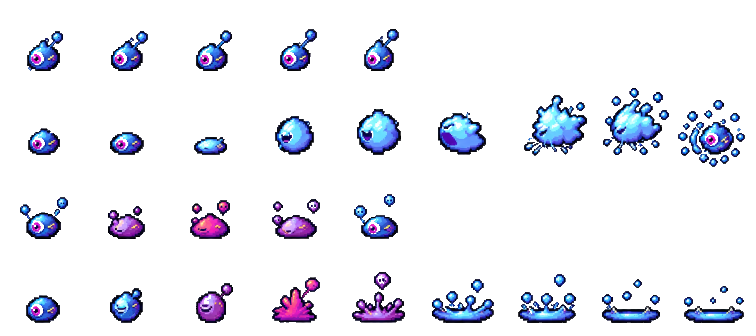
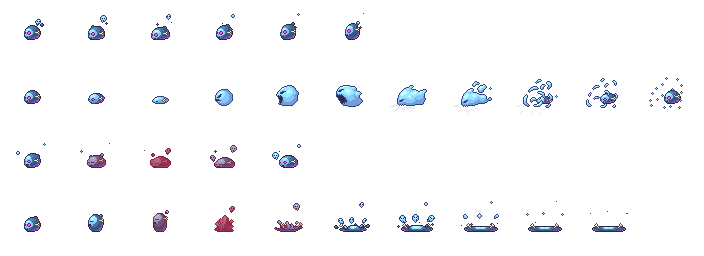
Back to the CraftPix slime sprites
Reverts 41f4ccb (ChatGPT-drafted blue and lava slime sheets): the
slimes use the Free Slime Mobs pack sheets again, cut by
process_foes.py, with their old FoeSprite layout and credits. The
drafted sheets and their scripts stay in git history.

diff --git a/src/scenes/battle/FoeSprite.ts b/src/scenes/battle/FoeSprite.ts
@@ -26,10 +26,9 @@ const ROWS: FoeAnim[] = ['idle', 'attack', 'hurt', 'death'];
 export type FoeGait = 'hop' | 'glide';
 
 /**
- * Foe sheets: third-party packs cut by scripts/art/process_foes.py, original foes painted by
- * scripts/art/paint_foes.py, and drafted foes cut by scripts/art/process_drafted_foes.py (see
- * art/README.md). One row per state, facing left; keep cells, columns and frame counts in sync
- * with those scripts' output.
+ * Foe sheets: third-party packs cut by scripts/art/process_foes.py, and original foes painted by
+ * scripts/art/paint_foes.py (see art/README.md). One row per state, facing left; keep cells, columns and frame counts in sync with that
+ * script's output.
  */
 interface Sheet {
   url: string;
@@ -53,11 +52,8 @@ interface Sheet {
   impact?: number;
 }
 
-/**
- * The slimes are ChatGPT-drafted sheets cut by scripts/art/process_drafted_foes.py (it prints these
- * numbers), shown at the hero's pixel size.
- */
-const SLIME = { scale: 3 };
+/** The slimes are tiny, so they are shown at twice the hero's pixel size. */
+const SLIME = { cell: 64, feet: { x: 33.5, y: 40 }, bodyHeight: 28, scale: 6, shadow: 26 };
 
 /**
  * The 128px packs draw their feet flush with the bottom edge of the cell. Standing them one pixel
@@ -84,26 +80,14 @@ const SHEETS: Record<FoeSpriteId, Sheet> = {
   'slime-blue': {
     ...SLIME,
     url: slimeBlueUrl,
-    cell: 84,
-    cols: 9,
-    frames: { idle: 5, attack: 9, hurt: 5, death: 9 },
-    feet: { x: 42, y: 71 },
-    bodyHeight: 40,
-    shadow: 36,
-    front: 15,
-    impact: 6, // the splash
+    cols: 11,
+    frames: { idle: 6, attack: 11, hurt: 5, death: 10 },
   },
   'slime-lava': {
     ...SLIME,
     url: slimeLavaUrl,
-    cell: 114,
     cols: 10,
     frames: { idle: 6, attack: 9, hurt: 5, death: 10 },
-    feet: { x: 57, y: 101 },
-    bodyHeight: 54,
-    shadow: 40,
-    front: 16,
-    impact: 5, // the flames at their tallest
   },
   'thorn-plant': {
     url: thornPlantUrl,

diff --git a/scripts/art/process_foes.py b/scripts/art/process_foes.py
@@ -5,6 +5,7 @@ https://craftpix.net/file-licenses/). The packs themselves are not kept in this 
 pass the unzipped folder of each pack you want to rebuild:
 
     python3 scripts/art/process_foes.py \
+        --slimes   <free-slime-mobs-pixel-art-top-down-sprite-pack> \
         --enemies  <free-fantasy-enemies-pixel-art-sprite-pack> \
         --werewolf <free-werewolf-sprite-sheets-pixel-art> \
         --minotaur <free-minotaur-sprite-sheet-pixel-art-pack>
@@ -26,14 +27,16 @@ ROOT = Path(__file__).resolve().parents[2]
 OUT_DIR = ROOT / 'src' / 'assets' / 'foes'
 
 # id -> (pack argument, [idle, attack, hurt, death] files inside the pack, row, mirror)
-# `row` picks one facing from sheets that stack several.
+# `row` picks one facing from sheets that stack several (the slimes: down, up, left, right).
 FOES: dict[str, tuple[str, list[str], int, bool]] = {
+    'slime-blue': ('slimes', [f'PNG/Slime2/Without_shadow/Slime2_{s}_without_shadow.png' for s in ('Idle', 'Attack', 'Hurt', 'Death')], 2, False),
+    'slime-lava': ('slimes', [f'PNG/Slime3/Without_shadow/Slime3_{s}_without_shadow.png' for s in ('Idle', 'Attack', 'Hurt', 'Death')], 2, False),
     'thorn-plant': ('enemies', [f'Plent/{s}.png' for s in ('Idle', 'Attack_1', 'Hurt', 'Dead')], 0, True),
     'fire-spirit': ('enemies', [f'Fire_Spirit/{s}.png' for s in ('Idle', 'Attack', 'Hurt', 'Dead')], 0, True),
     'shadow-wolf': ('werewolf', [f'Black_Werewolf/{s}.png' for s in ('Idle', 'Attack_1', 'Hurt', 'Dead')], 0, True),
     'minotaur': ('minotaur', [f'Minotaur_1/{s}.png' for s in ('Idle', 'Attack', 'Hurt', 'Dead')], 0, True),
 }
-CELL = {'enemies': 128, 'werewolf': 128, 'minotaur': 128}
+CELL = {'slimes': 64, 'enemies': 128, 'werewolf': 128, 'minotaur': 128}
 STATES = ('idle', 'attack', 'hurt', 'death')
 
 

diff --git a/art/README.md b/art/README.md
@@ -61,6 +61,7 @@ re-run it.
 
   | Sheet                        | Pack                                           | Character          |
   | ---------------------------- | ---------------------------------------------- | ------------------ |
+  | `slime-blue`, `slime-lava`   | Free Slime Mobs Pixel Art Top-Down Sprite Pack | Slime2, Slime3     |
   | `thorn-plant`, `fire-spirit` | Free Fantasy Enemies Pixel Art Sprite Pack     | Plent, Fire_Spirit |
   | `shadow-wolf`                | Free Werewolf Sprite Sheets Pixel Art          | Black_Werewolf     |
   | `minotaur`                   | Free Minotaur Sprite Sheet Pixel Art Pack      | Minotaur_1         |
@@ -85,15 +86,6 @@ re-run it.
   primitives quantised to short colour ramps, so change the painter and re-run it rather than
   editing a PNG. `?scene=foes` shows every passage's foes in the game; `art/foe-gallery.jpg` is a
   picture of all of them.
-
-- `slime-blue` and `slime-lava` are **original**, drafted in ChatGPT as one sheet each in
-  `foes-raw/` (rows idle, attack, hurt, death; facing left). The drafts came with a fake
-  transparency checkerboard painted in. `python3 scripts/art/process_drafted_foes.py --preview`
-  clears it (with `clear_checkerboard.py`; run that alone to remake the `-clear.png` copies kept
-  beside the drafts), cuts the frames, shrinks them by half (shown at 3×, like the hero) and
-  writes `src/assets/foes/<name>.png` (preview in `art/foe-previews/`). It prints the cell, feet
-  and body numbers for `FoeSprite.ts`. A few grey specks stay between the lava
-  slime's flames. Ask for a flat #00FF00 background next time.
 
 - `demon`, `shade` and `thornbeast` are original too, painted by
   `python3 scripts/art/paint_monsters.py --preview`. They are not used in the game yet.

diff --git a/CLAUDE.md b/CLAUDE.md
@@ -56,7 +56,6 @@ Before saying a task is done, run: `npm run lint && npm run typecheck && npm run
 
 - A foe shows sprite art by naming a sheet in `"sprite"` in its encounter JSON (ids in `FOE_SPRITES`, `src/core/content/schema.ts`; layouts in `src/scenes/battle/FoeSprite.ts`). Every sheet has one row per state: idle, attack, hurt, death, facing left.
 - Original foes (hissling, serpent, gust, storm-cloud, wave, flood-surge, squall, tempest) are pixel art painted by `python3 scripts/art/paint_foes.py [name…] [--preview]` (engine in `scripts/art/foe_engine.py`, needs Pillow) into `src/assets/foes/<name>.png`; never edit those PNGs by hand. They share one layout (`PAINTED` in `FoeSprite.ts`: 128px cells, 8 columns).
-- The slimes (slime-blue, slime-lava) are ChatGPT-drafted sheets in `art/foes-raw/`, cut by `python3 scripts/art/process_drafted_foes.py [--preview]` (it clears the painted checkerboard background and prints the numbers for `FoeSprite.ts`); never edit the PNGs by hand.
 - The other sheets are third-party packs cut by `scripts/art/process_foes.py` (credits in `art/README.md`).
 
 ## Armor, energy and the angel
